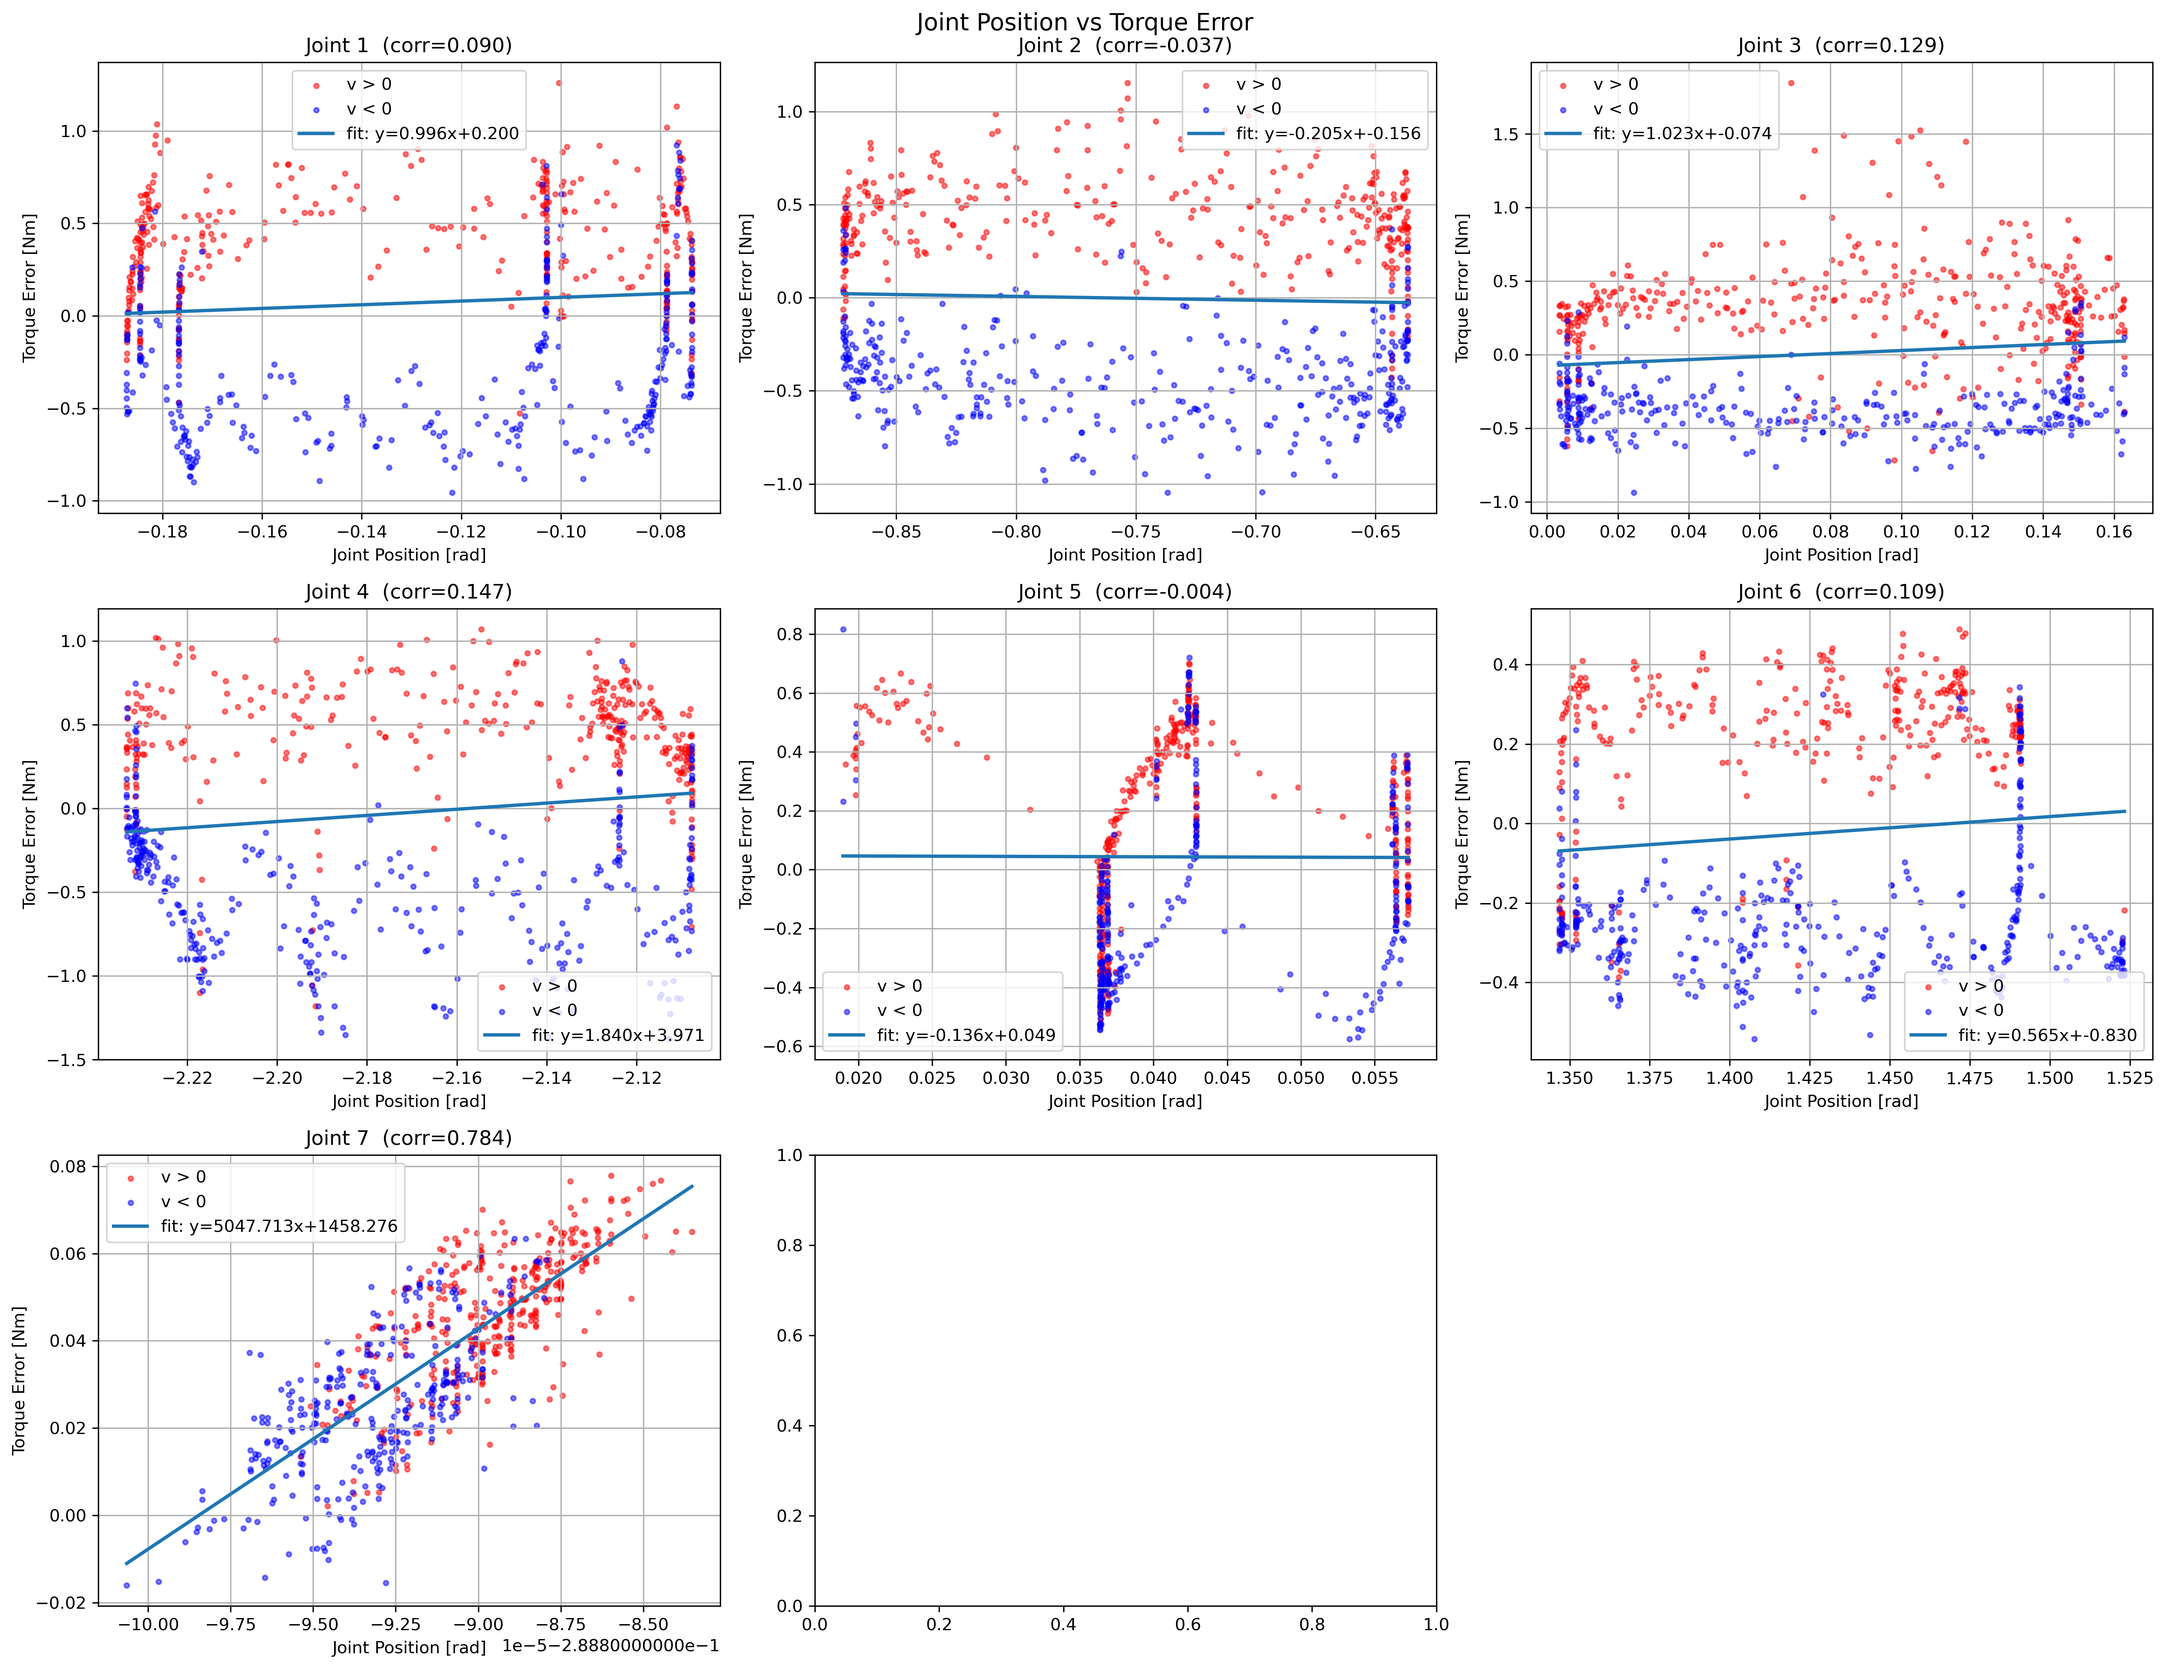
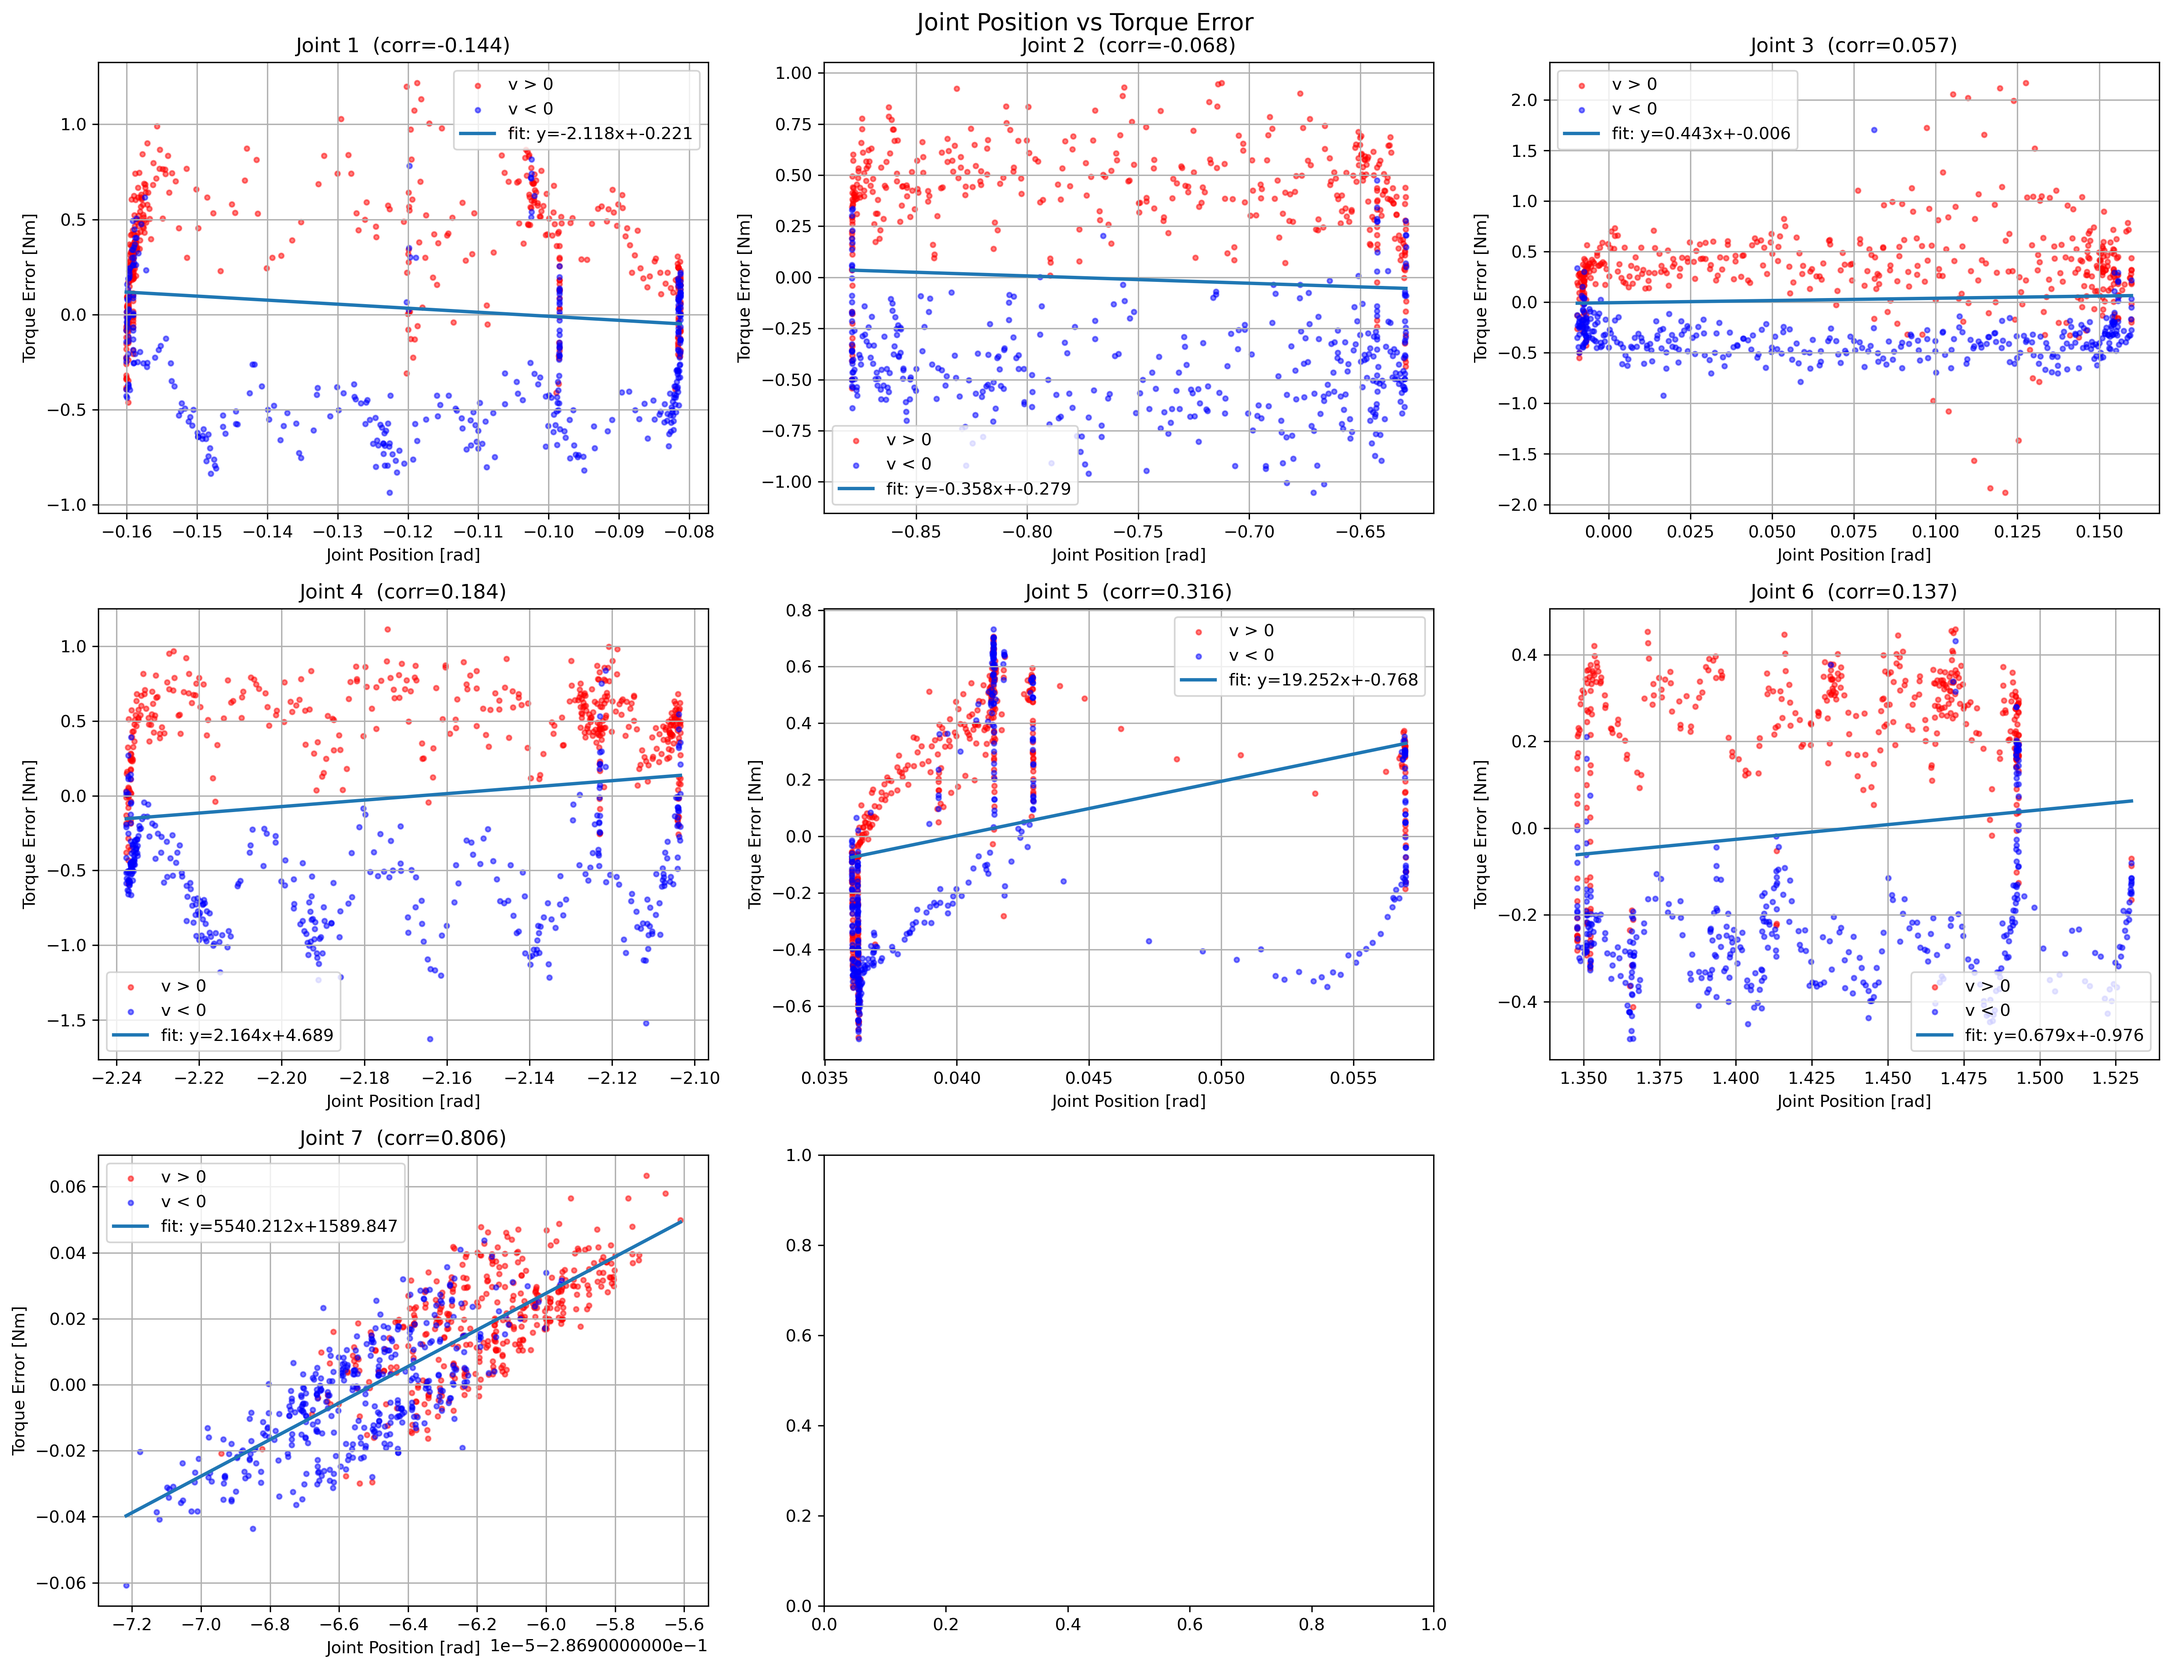
new k and d

diff --git a/new_structure/py_controllers/py_controllers/cartesian_impedance.py b/new_structure/py_controllers/py_controllers/cartesian_impedance.py
@@ -61,11 +61,11 @@ class CartesianImpedanceController(Node):
         self.i_pid = np.array(self.get_parameter('i_pid').value, dtype=float)
         self.i_error = np.zeros(7)
 
-        self.declare_parameter('k_gains', [750.0, 750.0, 750.0, 25.0, 25.0, 0.0])   # k_gains in impedance control (task space)
+        self.declare_parameter('k_gains', [1250.0, 750.0, 1250.0, 25.0, 25.0, 0.0])   # k_gains in impedance control (task space)
         self.k_gains = np.array(self.get_parameter('k_gains').value, dtype=float)
         self.K_gains = np.diag(self.k_gains)
 
-        self.declare_parameter('D_gains', [175.0, 125.0, 175.0, 1.0, 1.0, 0.0])   # k_gains in impedance control (task space)
+        self.declare_parameter('D_gains', [150.0, 125.0, 150.0, 1.0, 1.0, 0.0])   # k_gains in impedance control (task space)
         self.d_gains = np.array(self.get_parameter('D_gains').value, dtype=float)
         self.d_gains = np.diag(self.d_gains)
         self.eta = 1                                                              # for calculating d_gains
@@ -629,7 +629,7 @@ class CartesianImpedanceController(Node):
 
                 self.y_hat_combined = w_l * self.y_hat_local + (1.0 - w_l) * self.y_hat_cloud
 
-            tau = tau - self.y_hat_combined
+            tau = tau
             # publish on topic /effort_command
             self.effort_msg.efforts = tau.tolist()
             self.effort_publisher.publish(self.effort_msg)
